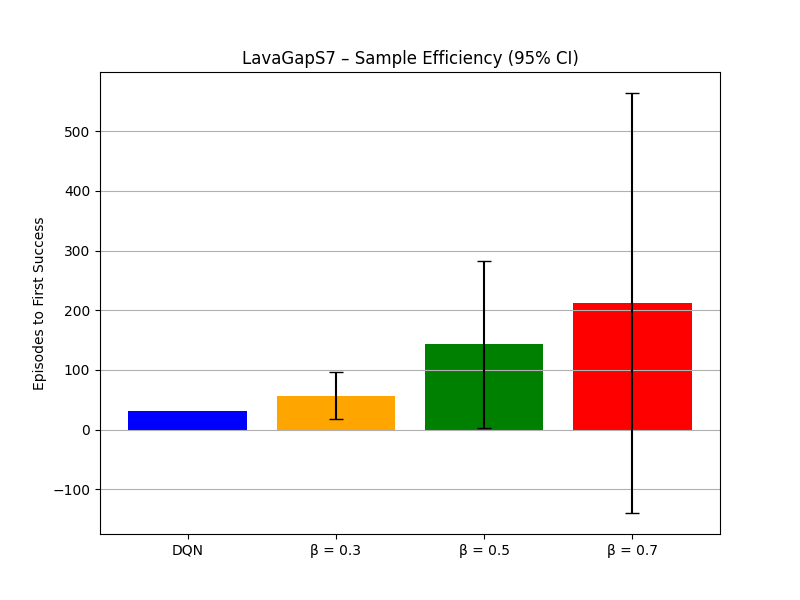
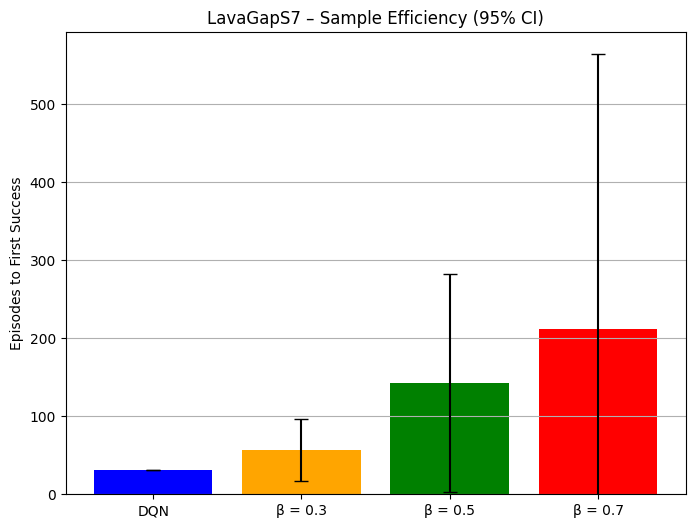
Minor bug fix

diff --git a/plot_scripts/plot_episodes_to_solve.py b/plot_scripts/plot_episodes_to_solve.py
@@ -37,39 +37,37 @@ def load_all_first_success(folder, env_name):
             full_path = os.path.join(folder, filename)
             first_success = extract_first_success(full_path)
 
-            if label not in methods:
-                methods[label] = []
-            methods[label].append(first_success)
+            methods.setdefault(label, []).append(first_success)
 
         except Exception as e:
-            print(f"⚠ Skipping file {filename}: {e}")
+            print(f"Skipping file {filename}: {e}")
 
     return methods
 
-def plot_episodes_to_solve(data, save_path=None, max_episode_display=350):
+def plot_episodes_to_solve(data, env_name, save_path=None, max_episode_display=350):
     """
-    Plots the average episodes-to-solve per β, with 95% CI.
-    Bars are gray if no runs solved the task.
+    Plots the average episodes-to-solve per β with 95% CI.
     """
-    labels = []
-    means = []
-    errors = []
-    colors = []
+    labels, means, errors, colors = [], [], [], []
 
-    for label, values in data.items():
+    # Optional: stable ordering
+    order = ["DQN", "β = 0.3", "β = 0.5", "β = 0.7"]
+    items = sorted(data.items(), key=lambda kv: order.index(kv[0]) if kv[0] in order else 999)
+
+    for label, values in items:
         successes = [v for v in values if np.isfinite(v)]
 
         if len(successes) == 0:
-            print(f"{label} never solved the task.")
             labels.append(f"{label} (unsolved)")
-            means.append(max_episode_display)
-            errors.append(0)
+            means.append(float(max_episode_display))
+            errors.append(0.0)
             colors.append("gray")
         else:
-            arr = np.array(successes)
-            mean = np.mean(arr)
-            stderr = np.std(arr, ddof=1) / np.sqrt(len(arr))
-            ci95 = 1.96 * stderr  # Approximate 95% CI
+            arr = np.array(successes, dtype=float)
+            mean = max(0.0, float(np.mean(arr)))
+            stderr = float(np.std(arr, ddof=1) / np.sqrt(len(arr))) if len(arr) > 1 else 0.0
+            ci95 = max(0.0, 1.96 * stderr)
+
             labels.append(label)
             means.append(mean)
             errors.append(ci95)
@@ -85,26 +83,32 @@ def plot_episodes_to_solve(data, save_path=None, max_episode_display=350):
             else:
                 colors.append("gray")
 
-    # Plotting
+
     plt.figure(figsize=(8, 6))
     x = np.arange(len(labels))
     plt.bar(x, means, yerr=errors, capsize=5, color=colors)
     plt.xticks(x, labels)
     plt.ylabel("Episodes to First Success")
-    env_title = ENV.replace("MiniGrid-", "").replace("-v0", "")
+
+    env_title = env_name.replace("MiniGrid-", "").replace("-v0", "")
     plt.title(f"{env_title} – Sample Efficiency (95% CI)")
     plt.grid(axis="y")
 
+
+    top = max([m + e for m, e in zip(means, errors)] + [max_episode_display])
+    plt.ylim(0, top * 1.05)  # bottom=0 ensures no negative ticks
+
     if save_path:
-        plt.savefig(save_path)
+        os.makedirs(os.path.dirname(save_path), exist_ok=True)
+        plt.savefig(save_path, bbox_inches="tight")
         print(f"Plot saved to {save_path}")
     else:
         plt.show()
 
 if __name__ == "__main__":
-    ENV = "MiniGrid-FourRooms-v0"
+    ENV = "MiniGrid-LavaGapS7-v0"
     results_folder = f"../results/{ENV}"
     save_path = f"../plots/{ENV}/{ENV}_episodes_to_solve.png"
 
     data = load_all_first_success(results_folder, ENV)
-    plot_episodes_to_solve(data, save_path=save_path)
+    plot_episodes_to_solve(data, env_name=ENV, save_path=save_path)

diff --git a/plot_scripts/plot_rewards.py b/plot_scripts/plot_rewards.py
@@ -131,7 +131,7 @@ def generate_plot(returns_dict, save_path=None, max_episodes=None):
 
 
 if __name__ == "__main__":
-    ENV = "MiniGrid-FourRooms-v0"
+    ENV = "MiniGrid-Empty-Random-6x6-v0"
     results_folder = f"../results/{ENV}"
     save_path = f"../plots/{ENV}/{ENV}_episode_reward.png"
 
